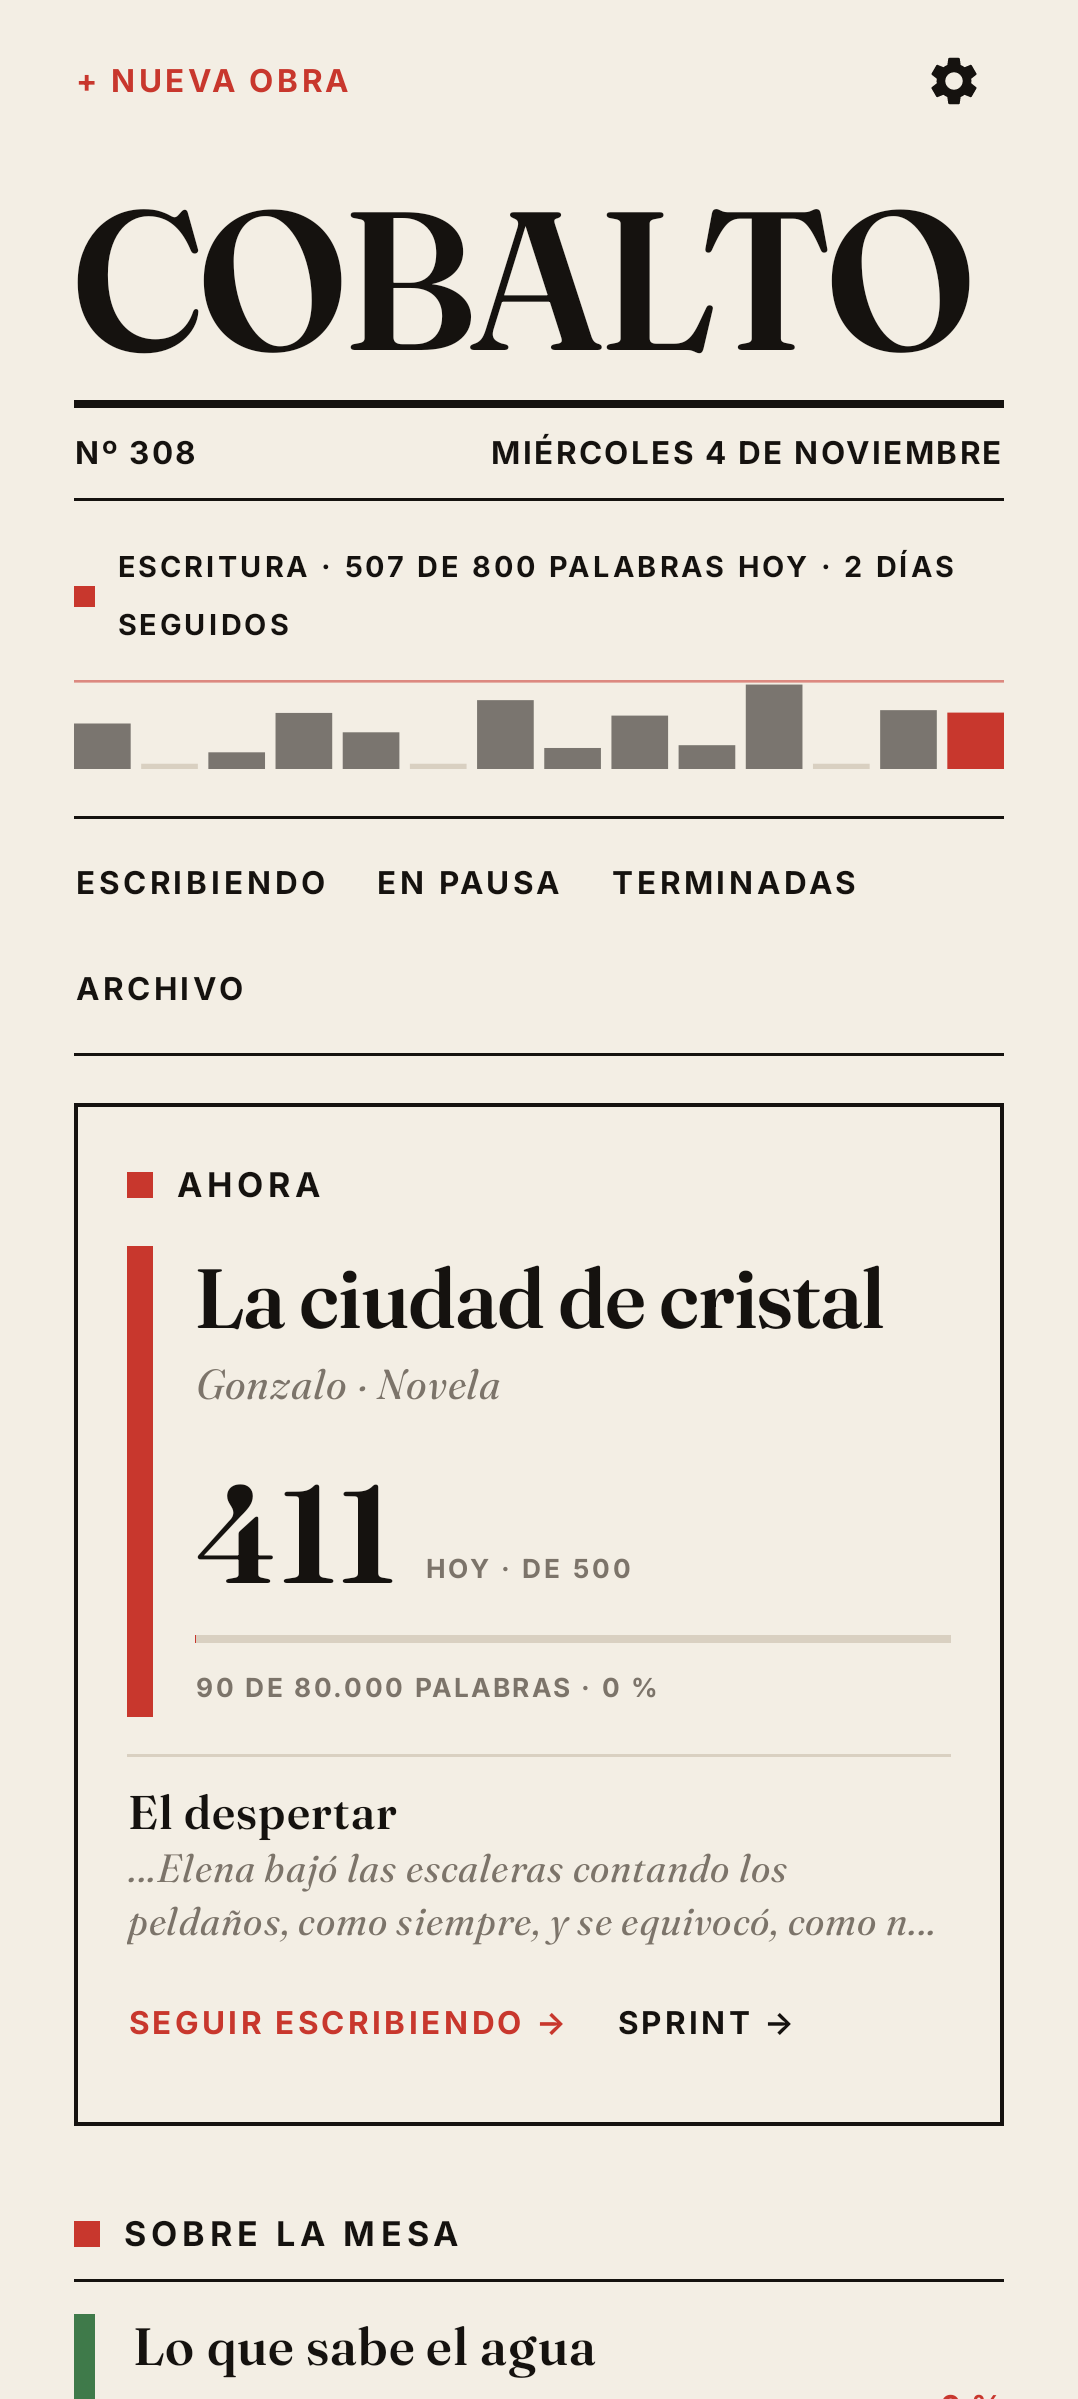
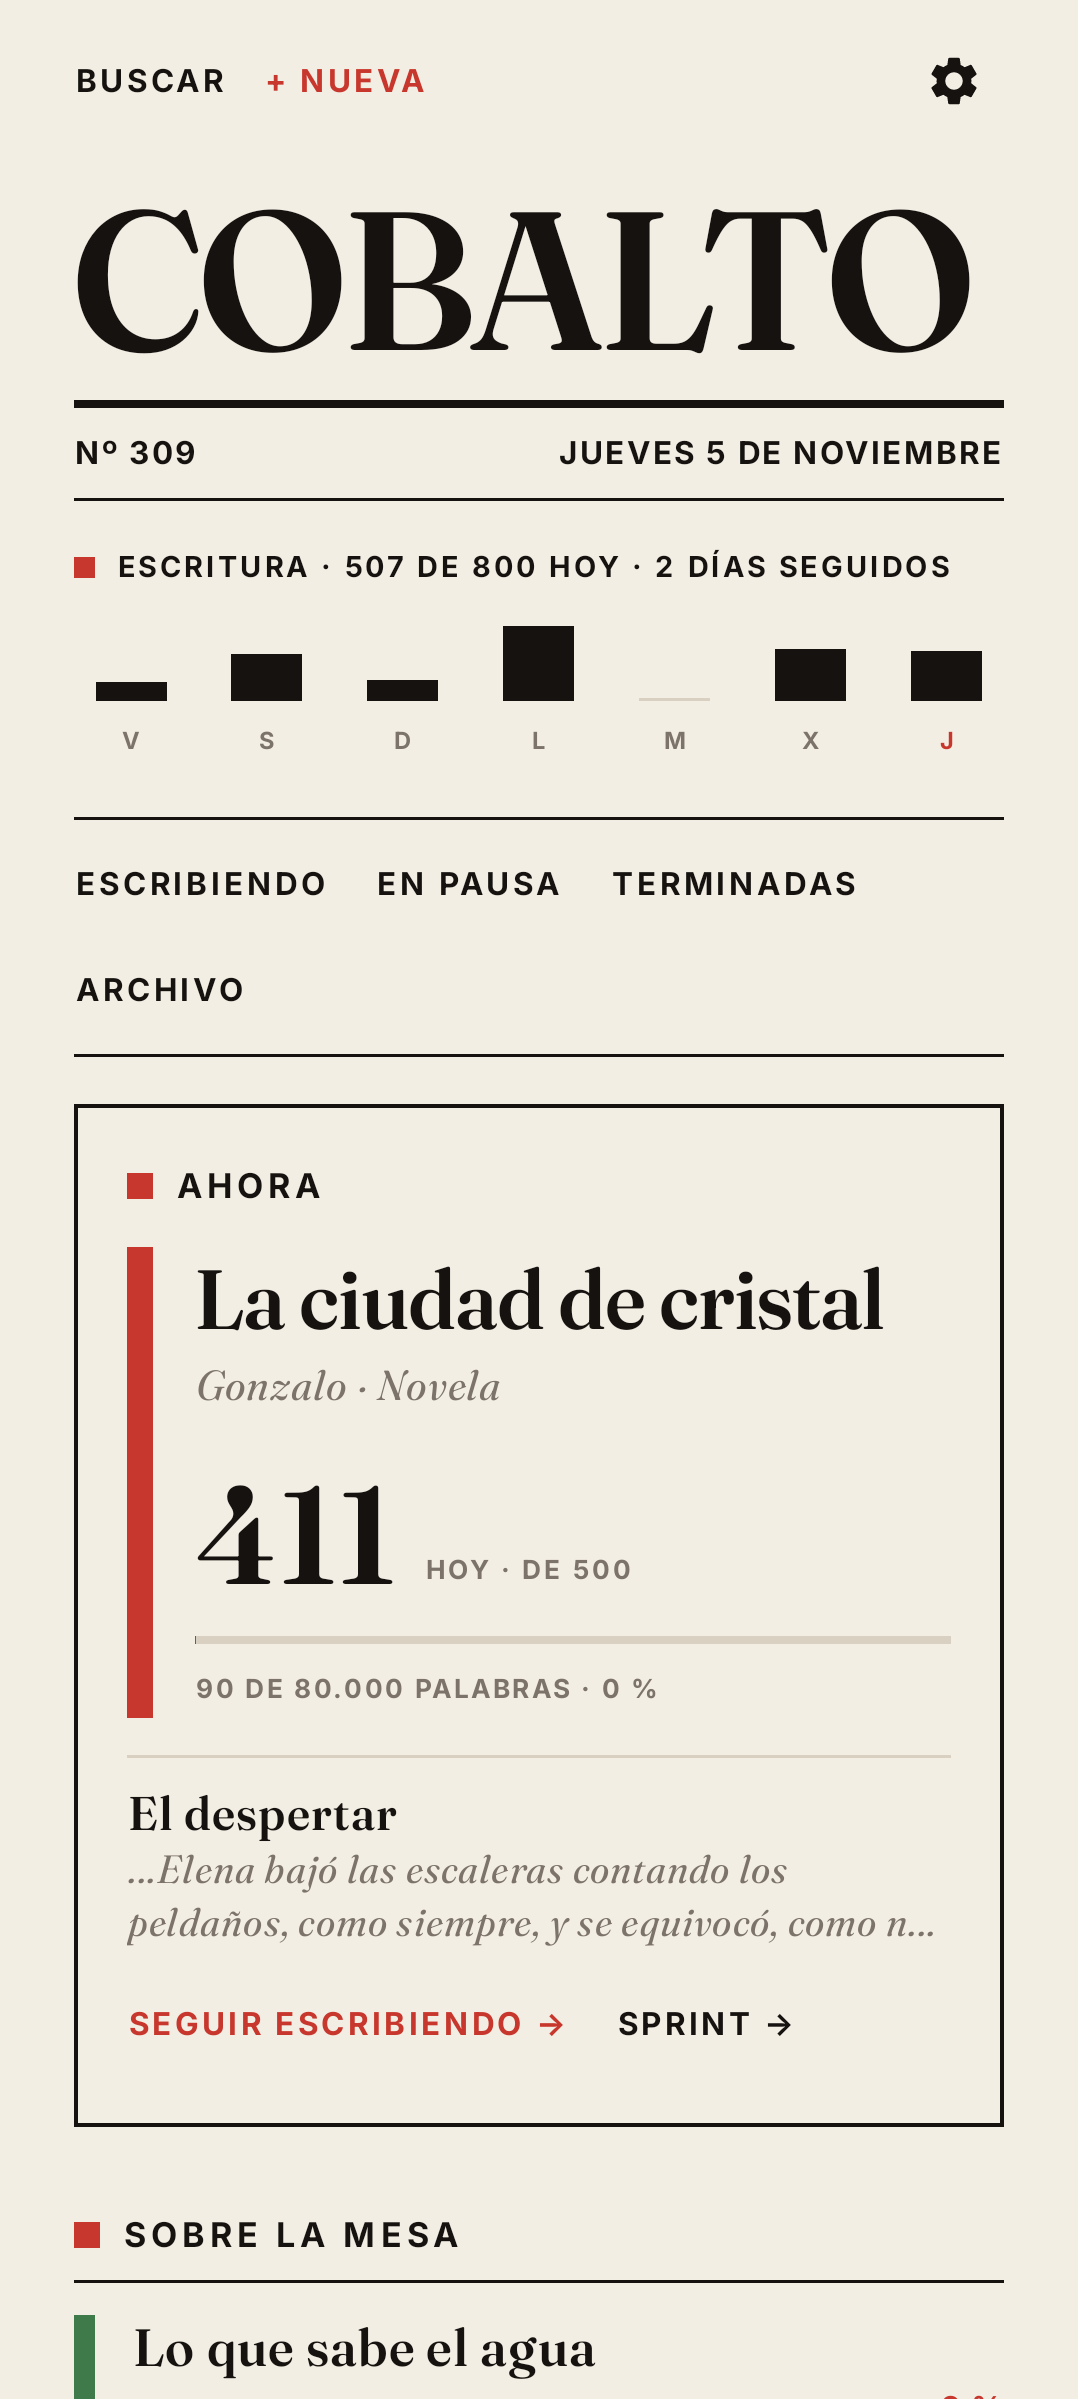
Cobalto 0.2.3: la portada como la de sus hermanas
«Buscar» y «+ Nueva» arriba; las barras de la semana como en Marfil y Azabache
(una por día con su inicial, en el acento al cumplir el objetivo); textos que
decían Atrio. 38 pruebas, 0 fallos.

Claude-Session: https://claude.ai/code/session_01Q4uywen3nuzUg5CTwJaCY5

diff --git a/app/src/main/java/com/gonzalo/cobalto/PantInicio.kt b/app/src/main/java/com/gonzalo/cobalto/PantInicio.kt
@@ -33,7 +33,7 @@ import java.util.Locale
  */
 @OptIn(ExperimentalLayoutApi::class, ExperimentalFoundationApi::class)
 @Composable
-fun PantInicio(alAbrir: (String) -> Unit, alSeguir: (String, String?) -> Unit, alSprint: (String) -> Unit, alNueva: () -> Unit, alIr: (Destino) -> Unit, alPareja: () -> Unit) {
+fun PantInicio(alAbrir: (String) -> Unit, alSeguir: (String, String?) -> Unit, alSprint: (String) -> Unit, alNueva: () -> Unit, alIr: (Destino) -> Unit, alPareja: () -> Unit, alBuscar: () -> Unit = { alIr(Destino.Escribiendo) }) {
     val ctx = LocalContext.current
     val e = remember { Escritos.get(ctx) }
     val ver = e.version
@@ -49,7 +49,8 @@ fun PantInicio(alAbrir: (String) -> Unit, alSeguir: (String, String?) -> Unit, a
 
     Column(Modifier.fillMaxSize().background(Paper).verticalScroll(rememberScrollState()).statusBarsPadding().padding(horizontal = 28.dp)) {
         Row(Modifier.fillMaxWidth().padding(top = 10.dp), verticalAlignment = Alignment.CenterVertically) {
-            EnlaceRevista("+ Nueva obra", acento = true) { alNueva() }
+            EnlaceRevista("Buscar") { alBuscar() }
+            EnlaceRevista("+ Nueva", Modifier.padding(start = 14.dp), acento = true) { alNueva() }
             Spacer(Modifier.weight(1f))
             Icon(Icons.Filled.Settings, "Ajustes", tint = Charcoal, modifier = Modifier.padding(start = 6.dp).combinedClickable(onClick = { alIr(Destino.Ajustes) }).padding(8.dp).size(22.dp))
         }
@@ -154,14 +155,17 @@ fun PantInicio(alAbrir: (String) -> Unit, alSeguir: (String, String?) -> Unit, a
 }
 
 /**
- * Entre la fecha y el menú, como en las portadas de Atrio y Marfil: lo escrito hoy (y tu objetivo, si tienes), los días seguidos y las
- * dos últimas semanas en barras (cada día, sus palabras; la raya fina es tu objetivo).
+ * Entre la fecha y el menú, como en las portadas de Azabache y Marfil: lo escrito hoy (y tu objetivo, si tienes), los días seguidos y la
+ * semana en barras (cada día, sus palabras; en el acento, los días que cumpliste el objetivo).
  */
 @Composable
 fun BarrasEscritura(e: Escritos, ver: Int) {
-    val r = remember(ver) { e.resumen(14) }
+    // La semana, como en las portadas de Azabache y Marfil: una barra por día (en el acento si cumpliste el objetivo) y su inicial debajo
+    val r = remember(ver) { e.resumen(7) }
     val algo = r.dias.any { it > 0 }
     if (!algo && r.diaria <= 0 && r.racha < 2) return
+    val hoy = java.time.LocalDate.now()
+    val semana = r.dias.takeLast(7).let { d -> d.indices.map { i -> hoy.minusDays((d.size - 1 - i).toLong()) to d[i] } }
     Column(Modifier.fillMaxWidth().padding(top = 14.dp)) {
         Row(verticalAlignment = Alignment.CenterVertically) {
             Box(Modifier.size(8.dp).background(Acento)); Spacer(Modifier.width(8.dp))
@@ -169,17 +173,31 @@ fun BarrasEscritura(e: Escritos, ver: Int) {
                 listOfNotNull(
                     "ESCRITURA",
                     when {
-                        r.diaria > 0 && r.hoy >= r.diaria -> "OBJETIVO CUMPLIDO · ${cifraE(r.hoy)} PALABRAS HOY"
-                        r.diaria > 0 -> "${cifraE(r.hoy)} DE ${cifraE(r.diaria)} PALABRAS HOY"
+                        r.diaria > 0 && r.hoy >= r.diaria -> "OBJETIVO CUMPLIDO · ${cifraE(r.hoy)} HOY"
+                        r.diaria > 0 -> "${cifraE(r.hoy)} DE ${cifraE(r.diaria)} HOY"
                         r.hoy > 0 -> "${cifraE(r.hoy)} PALABRAS HOY"
                         else -> null
                     },
                     if (r.racha >= 2) "${r.racha} DÍAS SEGUIDOS" else null
                 ).joinToString(" · "),
                 fontFamily = Body, fontSize = 11.sp, fontWeight = FontWeight.Black, letterSpacing = 1.4.sp,
-                color = if (r.diaria > 0 && r.hoy >= r.diaria) Acento else Charcoal, maxLines = 2
+                color = if (r.diaria > 0 && r.hoy >= r.diaria) Acento else Charcoal, maxLines = 1, overflow = androidx.compose.ui.text.style.TextOverflow.Ellipsis
             )
         }
-        if (algo) Barras(r.dias, Modifier.fillMaxWidth().padding(top = 10.dp).height(34.dp), meta = r.diaria)
+        if (algo) {
+            val tope = maxOf(semana.maxOf { it.second }, r.diaria, 1).toFloat()
+            Row(Modifier.fillMaxWidth().padding(top = 10.dp), horizontalArrangement = Arrangement.spacedBy(8.dp)) {
+                semana.forEach { (d, n) ->
+                    Column(Modifier.weight(1f), horizontalAlignment = Alignment.CenterHorizontally) {
+                        Box(Modifier.fillMaxWidth(0.62f).height(30.dp), contentAlignment = Alignment.BottomCenter) {
+                            Box(Modifier.fillMaxWidth().height(if (n > 0) maxOf(3f, 30f * n / tope).dp else 1.dp)
+                                .background(if (n > 0) (if (r.diaria > 0 && n >= r.diaria) Acento else Charcoal) else Line))
+                        }
+                        Text(d.dayOfWeek.getDisplayName(java.time.format.TextStyle.NARROW, Locale("es", "ES")).uppercase(), fontFamily = Body, fontSize = 9.sp, fontWeight = FontWeight.Bold,
+                            color = if (d == hoy) Acento else Muted, modifier = Modifier.padding(top = 4.dp))
+                    }
+                }
+            }
+        }
     }
 }

diff --git a/app/src/main/java/com/gonzalo/cobalto/EscribirGuia.kt b/app/src/main/java/com/gonzalo/cobalto/EscribirGuia.kt
@@ -54,7 +54,7 @@ object GuiaNovela {
             "Ya tienes al menos un personaje."),
         Paso(3, "Un esquema ligero", true, "Crear los tres actos",
             "Una lista corta de lo que pasa, no un guion detallado. Lo habitual son tres actos: planteamiento, nudo y desenlace.",
-            listOf("Atrio crea una nota «Esquema de la historia», fuera del manuscrito, con tres apartados: Planteamiento, Nudo y Desenlace.",
+            listOf("Cobalto crea una nota «Esquema de la historia», fuera del manuscrito, con tres apartados: Planteamiento, Nudo y Desenlace.",
                 "Escribe bajo cada uno una o dos líneas: qué pasa.",
                 "Si planificar te agobia, haz un esquema mínimo y sigue: se puede ampliar mientras escribes."),
             "Tienes el esquema (al menos tres resúmenes)."),
@@ -67,7 +67,7 @@ object GuiaNovela {
             "Ya lo tienes pensado."),
         Paso(5, "Un hábito realista", true, "Poner mi meta diaria",
             "Una meta pequeña que cumplas todos los días pesa más que una grande que abandones.",
-            listOf("Elige una cantidad que te parezca casi demasiado fácil (por ejemplo 300 palabras; es una sugerencia de Atrio, no de las guías).",
+            listOf("Elige una cantidad que te parezca casi demasiado fácil (por ejemplo 300 palabras; es una sugerencia de Cobalto, no de las guías).",
                 "Si puedes, escribe a la misma hora.",
                 "Un sprint de 10 o 25 minutos ayuda a empezar."),
             "Ya has escrito en tres días distintos."),
@@ -78,8 +78,8 @@ object GuiaNovela {
                 "El objetivo es llegar al final, no que quede bonito."),
             "Has llegado a la meta de palabras."),
         Paso(7, "Dejarlo reposar", false, "Empezar el reposo",
-            "Aparta el borrador unas semanas antes de releerlo, para leerlo casi como un lector (consejo de Atrio, sin una fuente concreta).",
-            listOf("Pulsa «Empezar el reposo»: Atrio cuenta los días.",
+            "Aparta el borrador unas semanas antes de releerlo, para leerlo casi como un lector (consejo de Cobalto, sin una fuente concreta).",
+            listOf("Pulsa «Empezar el reposo»: Cobalto cuenta los días.",
                 "Mientras tanto no lo abras: lee, descansa o piensa en otra historia.",
                 "Cuando quieras volver, márcalo como hecho."),
             "Ya has descansado del borrador."),
@@ -201,7 +201,7 @@ fun AccionGuia(id: Int, e: Escritos, obra: Doc, abrir: (String) -> Unit, irManus
                 Text("Elige una cantidad que te parezca casi demasiado fácil. Mejor cumplirla todos los días que abandonar una grande.", color = Muted, fontSize = 14.sp, lineHeight = 20.sp)
                 Row(Modifier.horizontalScrollSafe(), horizontalArrangement = Arrangement.spacedBy(8.dp)) { listOf("150", "300", "500", "1000").forEach { v -> SoftChip(v, dia == v) { dia = v } } }
                 CampoEscribir(dia, { dia = it.filter(Char::isDigit).take(6) }, "Palabras al día", numero = true)
-                Text("Para empezar, unas 300 (una sugerencia de Atrio). Siempre puedes subirla.", color = Muted, fontSize = 12.sp)
+                Text("Para empezar, unas 300 (una sugerencia de Cobalto). Siempre puedes subirla.", color = Muted, fontSize = 12.sp)
                 BotonEscribir("Guardar") { e.edita(pid) { put("diaria", dia.toIntOrNull() ?: 0) }; onCerrar() }
             }
         }

diff --git a/app/src/main/java/com/gonzalo/cobalto/Raiz.kt b/app/src/main/java/com/gonzalo/cobalto/Raiz.kt
@@ -58,6 +58,7 @@ fun CobaltoApp(pedida: Peticion? = null, alAbrirPedido: () -> Unit = {}) {
     LaunchedEffect(pedida) { if (pedida != null) { abrir(pedida.obra, pedida.escena, pedida.sprint); alAbrirPedido() } }
     // Una obra borrada desde dentro: se vuelve a donde estabas
     LaunchedEffect(EscribirHub.obraBorrada) { if (EscribirHub.obraBorrada.isNotEmpty() && EscribirHub.obraBorrada == obraId) obraId = null }
+    var buscar by rememberSaveable { mutableStateOf(false) }
     fun ir(x: Destino) { destino = x.ordinal }
 
     AvisoActualizacion()
@@ -66,9 +67,9 @@ fun CobaltoApp(pedida: Peticion? = null, alAbrirPedido: () -> Unit = {}) {
 
     Box(Modifier.fillMaxSize().background(Paper)) {
         when (d) {
-            Destino.Portada -> PantInicio(alAbrir = { abrir(it) }, alSeguir = { o, s -> abrir(o, s) }, alSprint = { abrir(it, sprint = true) }, alNueva = { nueva = true }, alIr = { ir(it) }, alPareja = { pareja = true })
+            Destino.Portada -> PantInicio(alAbrir = { abrir(it) }, alSeguir = { o, s -> abrir(o, s) }, alSprint = { abrir(it, sprint = true) }, alNueva = { nueva = true }, alIr = { ir(it) }, alPareja = { pareja = true }, alBuscar = { buscar = true; ir(Destino.Escribiendo) })
             Destino.Ajustes -> PantEstilo(alVolver = { destino = 0 })
-            else -> PantSecciones(d, alVolver = { destino = 0 }, alAbrir = { abrir(it) }, alNueva = { nueva = true })
+            else -> PantSecciones(d, alVolver = { destino = 0; buscar = false }, alAbrir = { abrir(it) }, alNueva = { nueva = true }, buscando = buscar)
         }
         AnimatedVisibility(pareja, enter = slideInVertically { it / 8 } + fadeIn(), exit = slideOutVertically { it / 8 } + fadeOut()) {
             Box(Modifier.fillMaxSize().background(Paper)) { LecturaPareja(onBack = { pareja = false }) }

diff --git a/app/src/main/java/com/gonzalo/cobalto/EscribirParejaUi.kt b/app/src/main/java/com/gonzalo/cobalto/EscribirParejaUi.kt
@@ -40,7 +40,7 @@ fun MarcasCompartir(e: Escritos, d: Doc) {
             parte?.b("comp") == true && !comp -> Text("Compartido con $nombre porque lo está la parte.", color = Muted, fontSize = 12.sp)
             parte?.b("hecho") == true && !hecho -> Text("Terminado porque lo está la parte.", color = Muted, fontSize = 12.sp)
             d.t == Escritos.T_PARTE && comp -> Text("$nombre puede leer todos los capítulos de esta parte (también los que añadas) y anotarlos.", color = Muted, fontSize = 12.sp)
-            comp -> Text("$nombre puede leerlo en su Atrio y anotarlo.", color = Muted, fontSize = 12.sp)
+            comp -> Text("$nombre puede leerlo en su Cobalto (o en Atrio) y anotarlo.", color = Muted, fontSize = 12.sp)
             !Pareja.hay(ctx) -> Text("Para compartirlo, enlaza tu cuenta con la de tu pareja (Ajustes → Cuenta).", color = Muted, fontSize = 12.sp)
         }
     }
@@ -139,7 +139,7 @@ private fun LeerYAnotar(pe: Escritos, c: Doc, notas: List<NotaLectura>, onNotas:
     var error by remember { mutableStateOf("") }
     val esc = pe.escenas(c.id)
     HojaEscribir(c.s("titulo").ifBlank { "Sin título" }, onCerrar) {
-        Text("Toca un párrafo para anotarlo. Tus notas las ve ${Pareja.nombre(ctx)} en su Atrio.", color = Muted, fontSize = 13.sp)
+        Text("Toca un párrafo para anotarlo. Tus notas las ve ${Pareja.nombre(ctx)} en su Cobalto (o en Atrio).", color = Muted, fontSize = 13.sp)
         if (error.isNotEmpty()) Text(error, color = ColGeneral, fontSize = 13.sp)
         if (esc.all { it.s("texto").isBlank() }) Text("Todavía no hay nada escrito.", color = Muted, fontSize = 14.sp)
         esc.forEachIndexed { i, s ->

diff --git a/app/src/main/java/com/gonzalo/cobalto/Secciones.kt b/app/src/main/java/com/gonzalo/cobalto/Secciones.kt
@@ -118,14 +118,14 @@ private fun Resultados(busca: String, e: Escritos, ver: Int, alAbrir: (String) -
  */
 @OptIn(ExperimentalFoundationApi::class)
 @Composable
-fun PantSecciones(inicial: Destino, alVolver: () -> Unit, alAbrir: (String) -> Unit, alNueva: () -> Unit) {
+fun PantSecciones(inicial: Destino, alVolver: () -> Unit, alAbrir: (String) -> Unit, alNueva: () -> Unit, buscando: Boolean = false) {
     val ctx = LocalContext.current
     val e = remember { Escritos.get(ctx) }
     val ver = e.version
     val paginas = listOf(Destino.Escribiendo, Destino.EnPausa, Destino.Terminadas, Destino.Archivo)
     val pager = rememberPagerState(initialPage = paginas.indexOf(inicial).coerceAtLeast(0)) { paginas.size }
     val ambito = rememberCoroutineScope()
-    var buscando by rememberSaveable { mutableStateOf(false) }
+    var buscando by rememberSaveable { mutableStateOf(buscando) }
     var busca by rememberSaveable { mutableStateOf("") }
     var aviso by remember { mutableStateOf("") }
     val cuentas = remember(ver) { paginas.map { d -> e.obrasDe(d.estado()!!).size } }

diff --git a/app/src/main/java/com/gonzalo/cobalto/EscribirArbol.kt b/app/src/main/java/com/gonzalo/cobalto/EscribirArbol.kt
@@ -443,7 +443,7 @@ fun ArbolObra(e: Escritos, obra: Doc, ver: Int, a: AbreEscribir, foco: String?) 
     })
     union?.let { (x, y) -> RelacionDialogo(e, pid, null, onCerrar = { union = null }, aNueva = x, bNueva = y) }
     if (ordenar) HojaEscribir("¿Ordenar el árbol?", { ordenar = false }) {
-        Text("Atrio colocará todas las fichas solas (lo unido, cerca). Después puedes moverlas a mano.", color = Muted, fontSize = 14.sp)
+        Text("Cobalto colocará todas las fichas solas (lo unido, cerca). Después puedes moverlas a mano.", color = Muted, fontSize = 14.sp)
         Row(horizontalArrangement = Arrangement.spacedBy(10.dp)) {
             BotonEscribir("Ordenar") { ordenar = false; ordenarAhora() }
             BotonEscribir("No", suave = true) { ordenar = false }

diff --git a/app/src/main/java/com/gonzalo/cobalto/PantEstilo.kt b/app/src/main/java/com/gonzalo/cobalto/PantEstilo.kt
@@ -31,7 +31,7 @@ import kotlinx.coroutines.Dispatchers
 import kotlinx.coroutines.launch
 import kotlinx.coroutines.withContext
 
-const val VERSION = "0.2.2"
+const val VERSION = "0.2.3"
 
 /** «Ajustes»: Apariencia (como la de Atrio), cuenta de Atrio y pareja, actualizaciones, escritura y copias. */
 @OptIn(ExperimentalLayoutApi::class)

diff --git a/README.md b/README.md
@@ -10,6 +10,13 @@ versiones, comparar y mezclar, exportar (texto, Markdown, Word, PDF) e importar,
 Sin migración: usa los mismos documentos que Atrio y Atrio del PC (`/users/<uid>/escritos`), con el formato de `docs/escribir.md` de Atrio.
 Lo que escribas en el PC aparece aquí al momento, y al revés.
 
+## 0.2.3: la portada como la de sus hermanas
+
+- Arriba, «Buscar» y «+ Nueva» como en Hiedra y Marfil (antes solo «+ Nueva obra»); «Buscar» abre las secciones con el buscador abierto.
+- Las barras de escritura son las de Marfil y Azabache: la semana, una barra por día con su inicial (en el acento, los días que cumpliste
+  el objetivo), y la línea de arriba en una sola línea.
+- Los textos de la guía y del árbol que decían «Atrio» dicen Cobalto; lo de la pareja, «en su Cobalto (o en Atrio)».
+
 ## 0.2.2
 
 - «Leer en Marfil» abre Marfil **leyendo esa obra** (Marfil 0.12.3 o más nueva), no solo la lista de Escritos.
